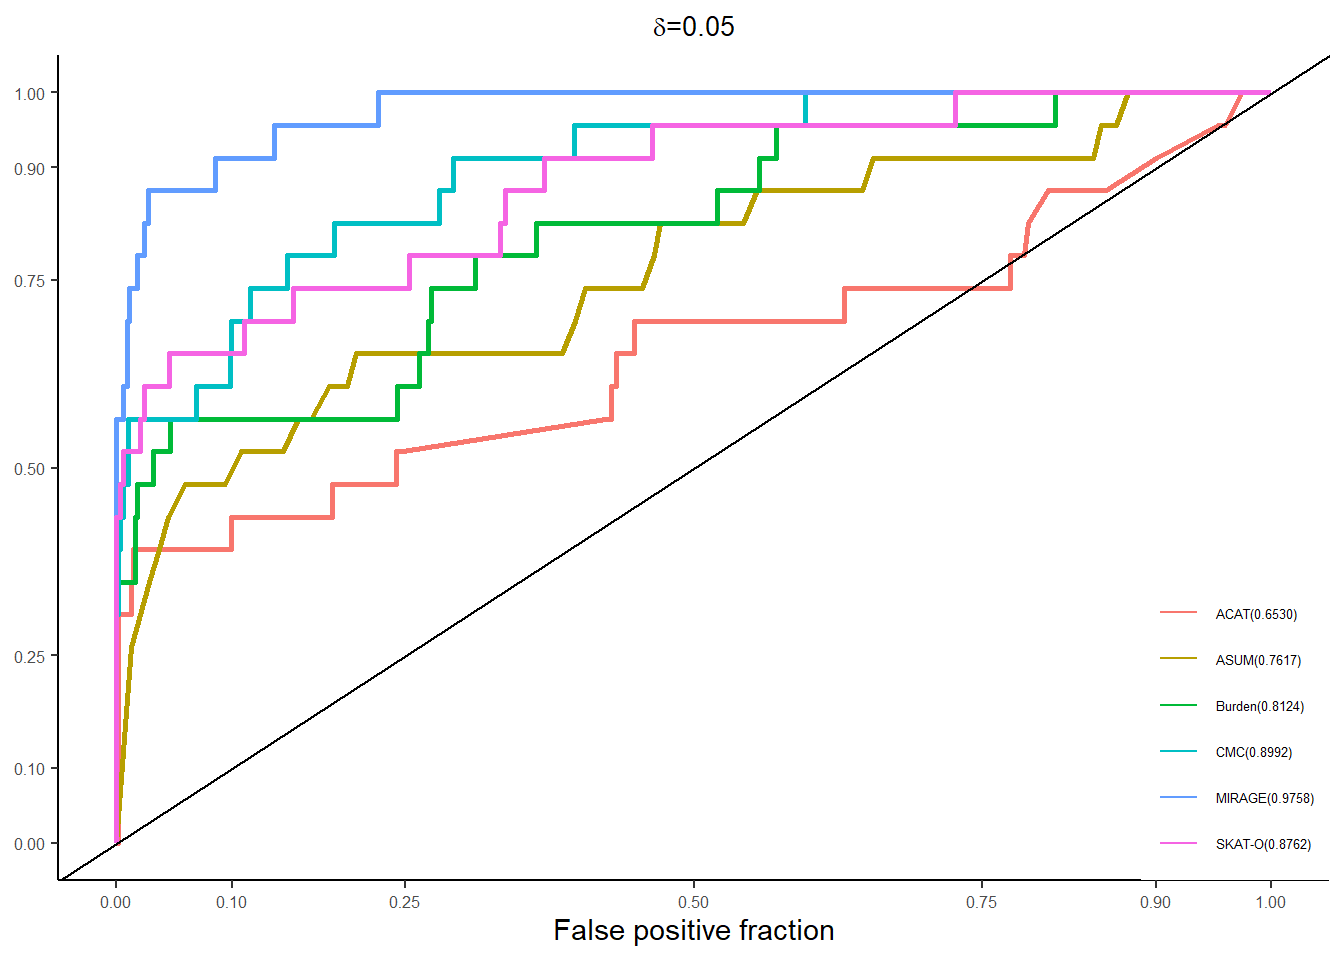
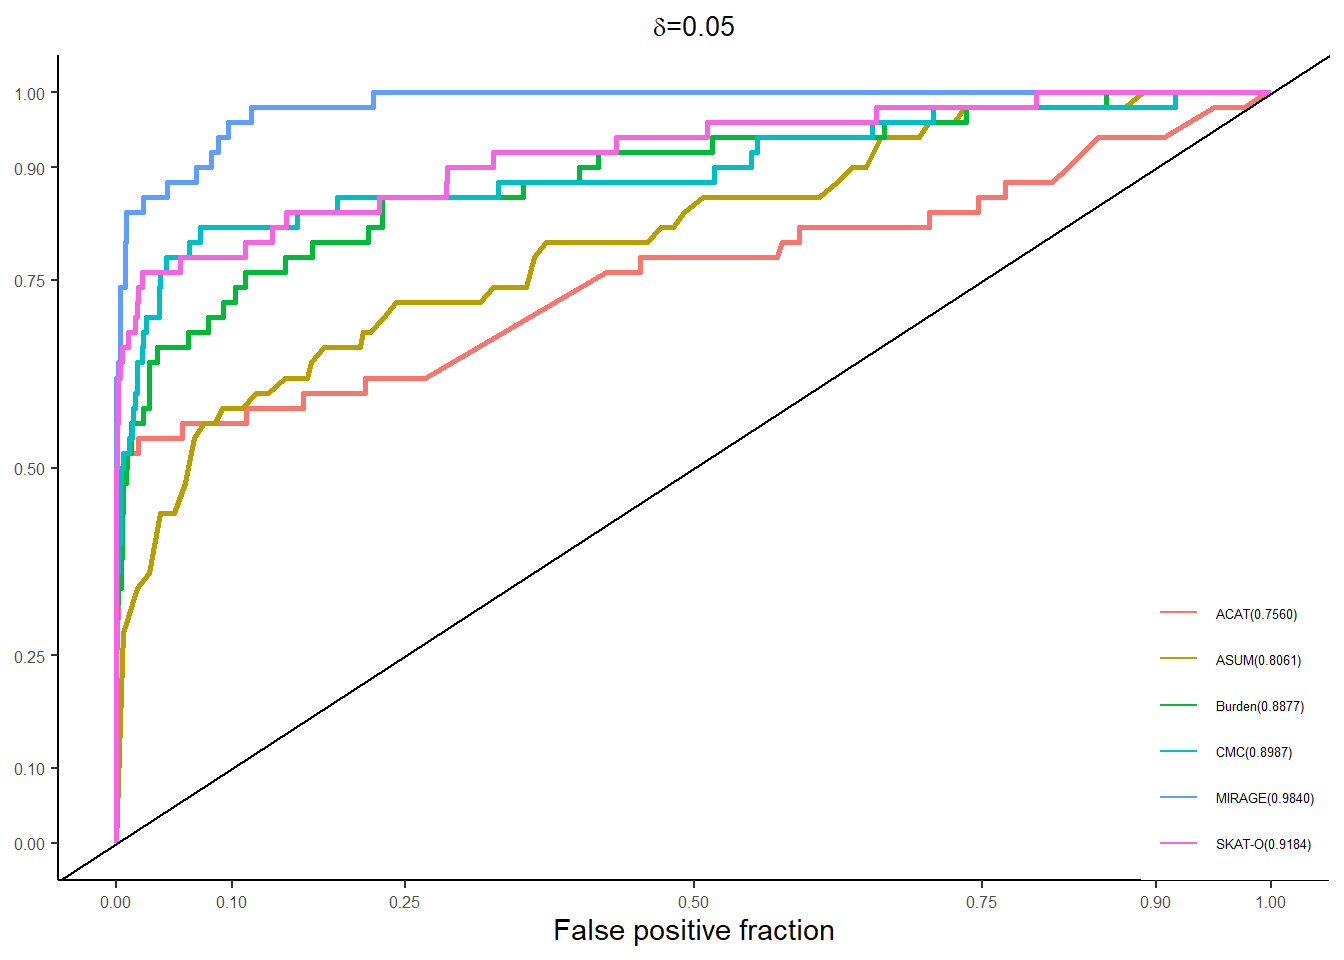
7/1/2025

diff --git a/docs/additional_simulations.html b/docs/additional_simulations.html
@@ -362,12 +362,12 @@ it is randomly drawn between 50 and 500.</li>
 <pre class="r"><code>############################################################################################################
 ################################ delta=0.05
 rm(&quot;Ui&quot;, &quot;mirage_pvalue&quot;, &quot;mirage_BF&quot;, &quot;fisher_pvalue&quot;, &quot;skato_pvalue&quot;, &quot;cmc_pvalue&quot;, &quot;asum_pvalue&quot;, &quot;acat.pvalue&quot;, &quot;fisher.separate.pvalue&quot;)
-load(&quot;C:/Shengtong/Research/rare-var/RareVariant/AJHG submisson/round1 revision/AdditionalSimulations/RandomNumberVariants/7methods_delta0.02_MAC_threshold10.gammamean335_5rep.RData&quot;)
+load(&quot;C:/Shengtong/Research/rare-var/RareVariant/AJHG submisson/round1 revision/AdditionalSimulations/RandomNumberVariants/7methods_delta0.05_MAC_threshold10.gammamean335_5rep.RData&quot;)
 AUC_summary_0.05=matrix(nrow=5, ncol=6)
 colnames(AUC_summary_0.05)=c(&quot;ACAT&quot;, &quot;ASUM&quot;, &quot;Burden&quot;, &quot;CMC&quot;, &quot;MIRAGE&quot;, &quot;SKAT-O&quot;)
 #for (i in 1:5)
 {
-  i=3
+  i=2
 Ui=Gene.Risk.Status[[i]]
 mirage_pvalue=MIRAGE.pvalue[[i]]
 mirage_BF=MIRAGE.BF[[i]]
@@ -389,7 +389,7 @@ for (ii in 1:nrow(fisher.separate.pvalue))
 num_run=length(mirage_pvalue)
 
 
-method=rep(c( &quot;Burden(0.8124)&quot;, &quot;SKAT-O(0.8762)&quot;, &quot;MIRAGE(0.9758)&quot;, &quot;CMC(0.8992)&quot;, &quot;ASUM(0.7617)&quot;, &quot;ACAT(0.6530)&quot;), each=num_run)
+method=rep(c( &quot;Burden(0.8877)&quot;, &quot;SKAT-O(0.9184)&quot;, &quot;MIRAGE(0.9840)&quot;, &quot;CMC(0.8987)&quot;, &quot;ASUM(0.8061)&quot;, &quot;ACAT(0.7560)&quot;), each=num_run)
 
 roc_single_run=data.frame(D=Ui, m=c(fisher_pvalue,skato_pvalue, -mirage_BF, cmc_pvalue, asum_pvalue, acat.pvalue), method=method)
 p2.basic=ggplot(roc_single_run, aes(d = D, m = m, color=method), size=2) + 
@@ -417,7 +417,7 @@ AUC_summary_0.05[i,]=calc_auc(p2.basic)$AUC
 p2_delta0.05</code></pre>
 <p><img src="additional_simulations_files/figure-html/unnamed-chunk-4-1.png" width="672" /></p>
 <pre class="r"><code>round(calc_auc(p2.basic)$AUC, 4)</code></pre>
-<pre><code>## [1] 0.6530 0.7617 0.8124 0.8992 0.9758 0.8762</code></pre>
+<pre><code>## [1] 0.7560 0.8061 0.8877 0.8987 0.9840 0.9184</code></pre>
 <pre class="r"><code>#grid.arrange(p1, p2, top=grid.text(&quot;ROC curves&quot;), bottom=grid.text(expression(paste(alpha, &quot;=0.1,&quot;, alpha[0], &quot;=0.1,&quot;, beta, &quot;=2000,&quot;, beta[0], &quot;=1000&quot;))), nrow=1)
 #dev.off()
 ####################### comparison among three burdens ############

diff --git a/docs/index.html b/docs/index.html
@@ -287,7 +287,8 @@ prior</a></p></li>
 <li><p><a href="simulation_logistic_prior.html">simulation
 experiments</a></p>
 <ul>
-<li>additional simulations</li>
+<li><a href="additional_simulations.html">additional
+simulations</a></li>
 </ul></li>
 </ul>
 </div>
